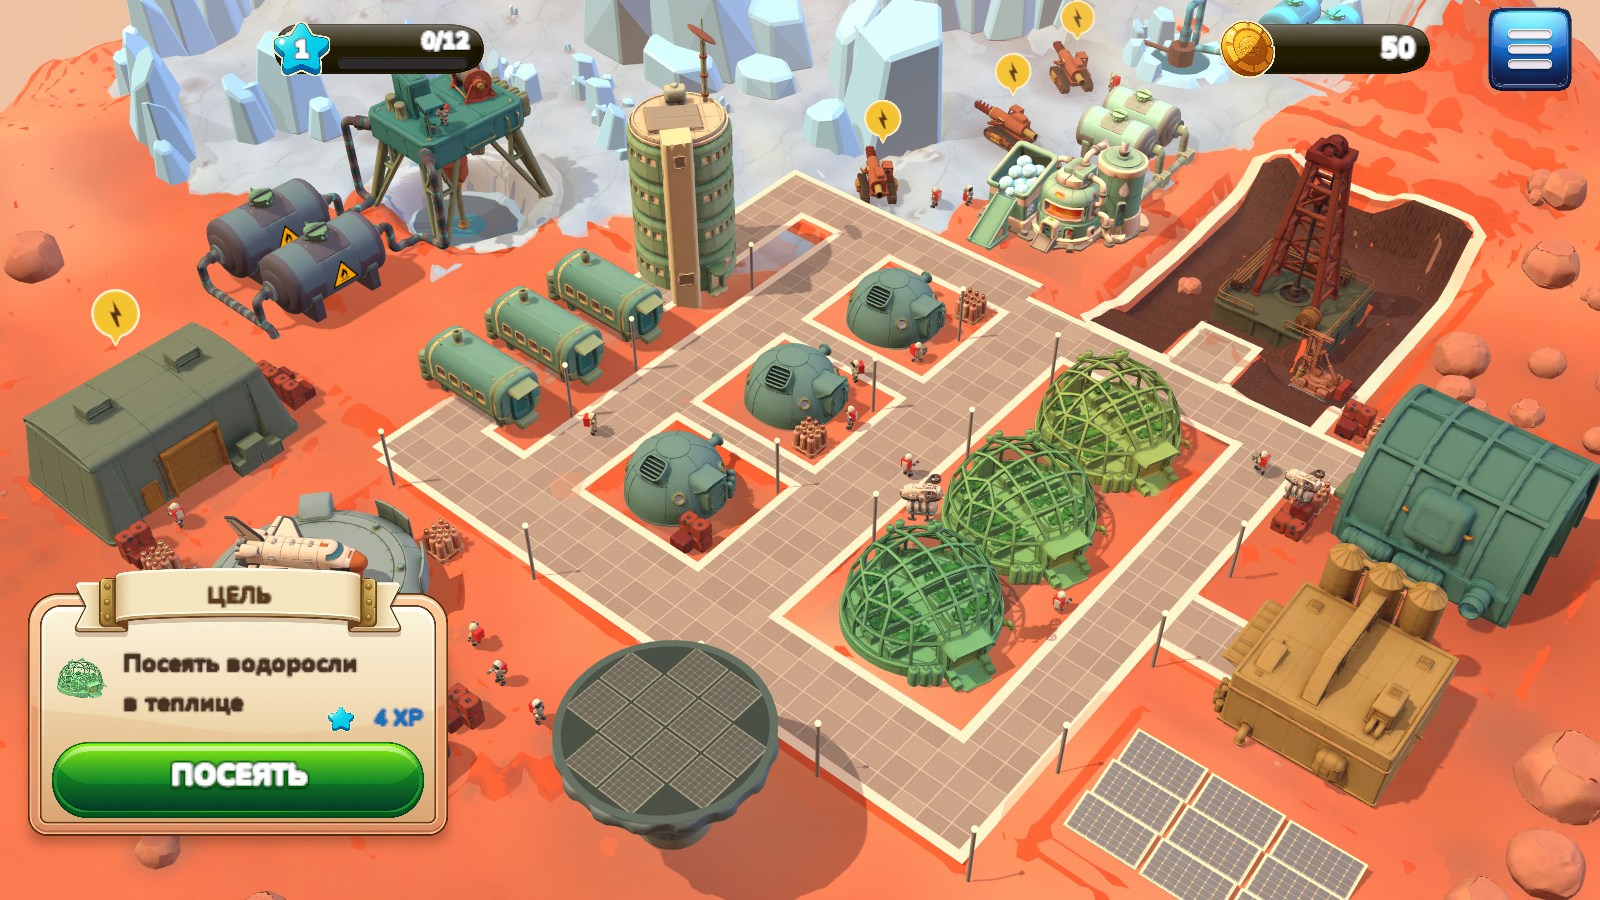
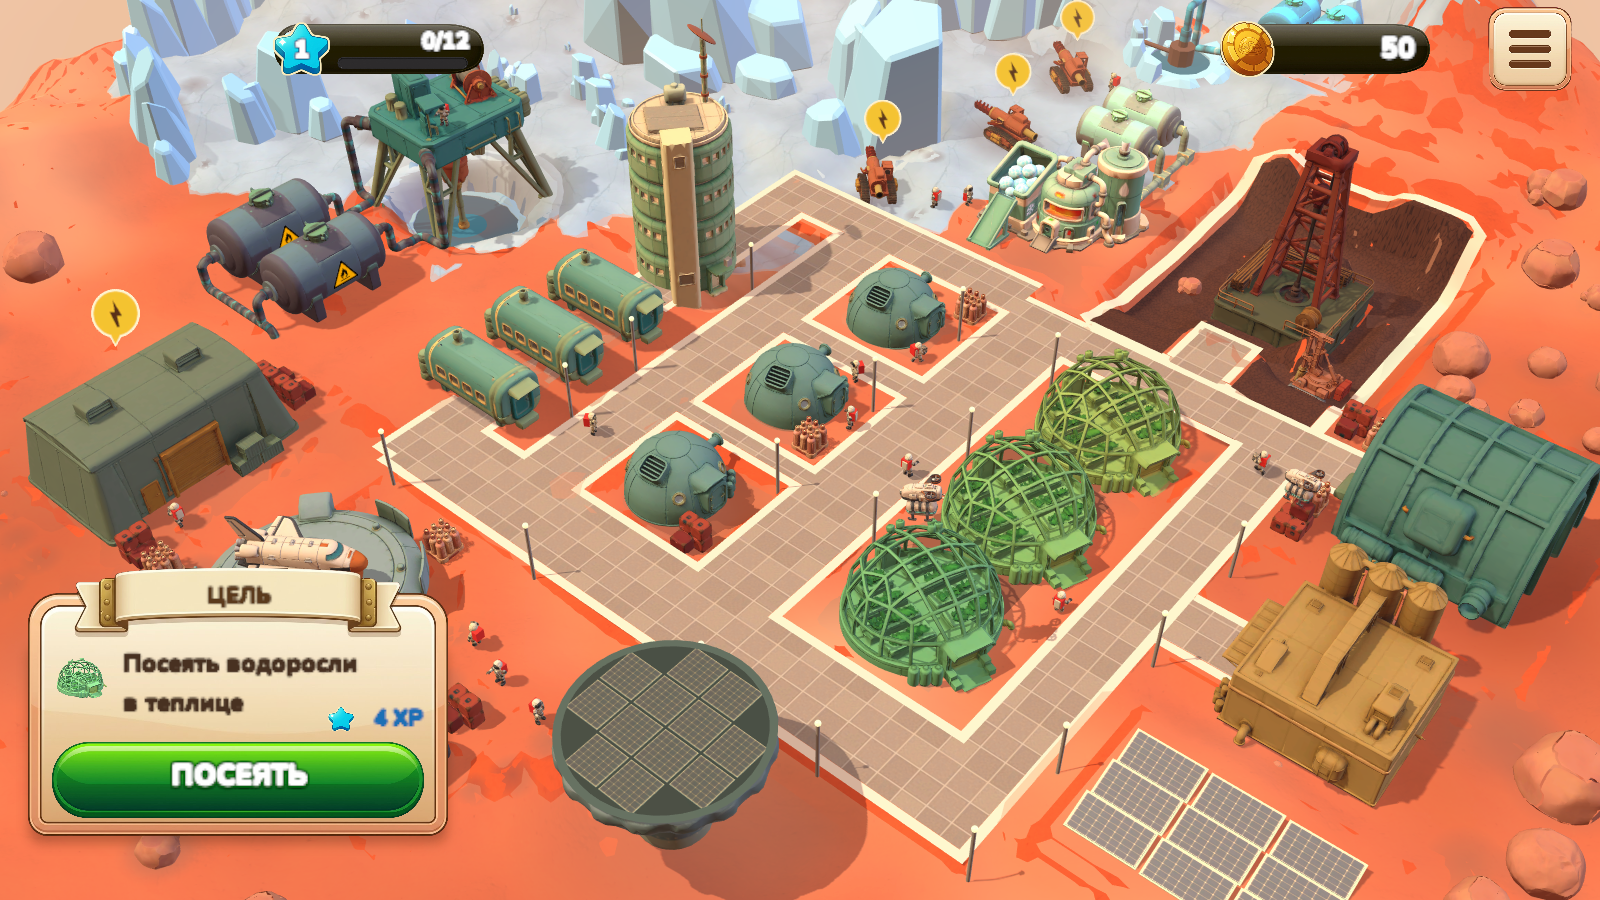
Ночь 2: строки кликабельности и анимации шаттла, задачи Beads

Changed region(s): [[0.9062, 0.0, 1.0, 0.1244], [0.75, 0.0311, 0.8125, 0.0622]]

diff --git a/loop/ui/referensy-sklad/barn_page.html b/loop/ui/referensy-sklad/barn_page.html
@@ -1,0 +1,1 @@
[1 lines of base64/hex data omitted]

diff --git a/loop/PROMPT-NOCH-2.md b/loop/PROMPT-NOCH-2.md
@@ -38,7 +38,20 @@
    тапом по затемнению. Порядок: каркас и сетка с реальными запасами из
    `mars-colony/src` → состояния (пусто, полно) → продажа степпером → juice
    открытия. Каждый шаг — свой виток и свой кадр с открытым складом.
-2. **Новые картинки заказчика.** Перед каждым витком смотреть
+2. **Всё кликабельно** (`bd` mars-colony, P0, заказчик 05.09 ночью): тап по любому
+   зданию — выделение объекта (подсветка/контур, не перекраска) и плашка с
+   названием над макушкой (макушка по вершинам меша, как у маяка цели). Плашка —
+   на элементах заказчика (капсула или крем), название из реестра зданий.
+   Порядок: `mars-unity-coder` raycast и состояние «выбрано/снято», затем
+   `mars-ui-artist` вид, `mars-juice` появление, `mars-tester` (два тапа подряд,
+   тап в пустоту, тап во время открытого склада), кадр с выделенной теплицей и
+   настоящий клик в Play как в UI-14. Ворота UI-22.
+3. **Анимация шаттла** (`bd`, P1): прилёт по дуге из-за верхнего края, посадка на
+   площадку с пылевым облаком, пауза, взлёт и уход за кадр. Без внешних пакетов:
+   корутина и `AnimationCurve`, `ParticleSystem` для пыли. Исходную позу модели
+   снять и восстанавливать. Кадры трёх фаз (в воздухе, касание, взлёт) — снимать
+   с фиксированным временем анимации через batch-метод. Ворота UI-23.
+4. **Новые картинки заказчика.** Перед каждым витком смотреть
    `C:/Users/amirkhan/Downloads/` на файлы новее `loop/ui/pilot-elementy-a.png`
    с именами `Gemini_Generated_Image_*.jpg` или `*.jpg` от Gemini. Появились —
    вырезать `ikonka_rembg.py --bez-obvodki --ne-kvadrat`, посмотреть глазами,
@@ -46,14 +59,14 @@
    `knopka-krest`, квадратное углубление → `yacheyka`), положить в
    `Assets/UI/Elementy/` под именем с суффиксом `-2`, переключить в
    `InterfeysBuilder` и снять кадр. Ворота UI-21.
-3. **Иерархия:** карточка цели весит больше строки счётчиков (`bd` mars-colony-njy).
+5. **Иерархия:** карточка цели весит больше строки счётчиков (`bd` mars-colony-njy).
    Инструмент: размер шрифта/тень/цоколь, не цвет. Ворота UI-17 (пересоздать).
-4. **Бейджи-молнии** (UI-16 escalated, `bd` mars-colony-mos): убрать до появления
+6. **Бейджи-молнии** (UI-16 escalated, `bd` mars-colony-mos): убрать до появления
    механики энергии — обратимо, в коде оставить флаг. Отметить в отчёте как
    решение цикла, заказчик утром подтвердит или вернёт.
-5. **Juice маяка цели** (`bd` mars-colony-7h0): вертикальный бег ±8 px за 1.6 с,
+7. **Juice маяка цели** (`bd` mars-colony-7h0): вертикальный бег ±8 px за 1.6 с,
    гашение при смене состояния. `mars-juice`.
-6. **Тень карточки** UI-13 (open, 11.1/12): дотянуть на новой панели или закрыть
+8. **Тень карточки** UI-13 (open, 11.1/12): дотянуть на новой панели или закрыть
    как неактуальную, если тень новой панели читается.
 
 ## Виток
